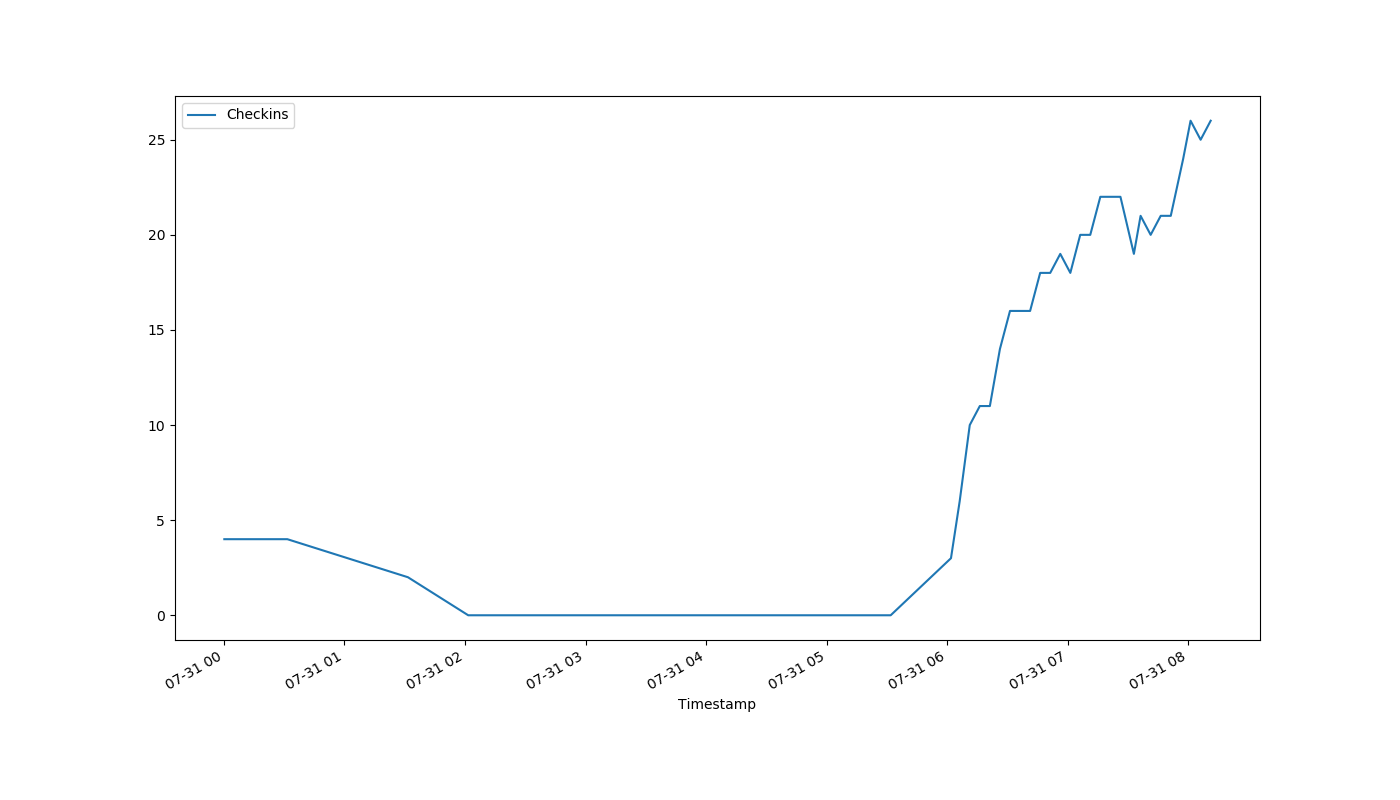
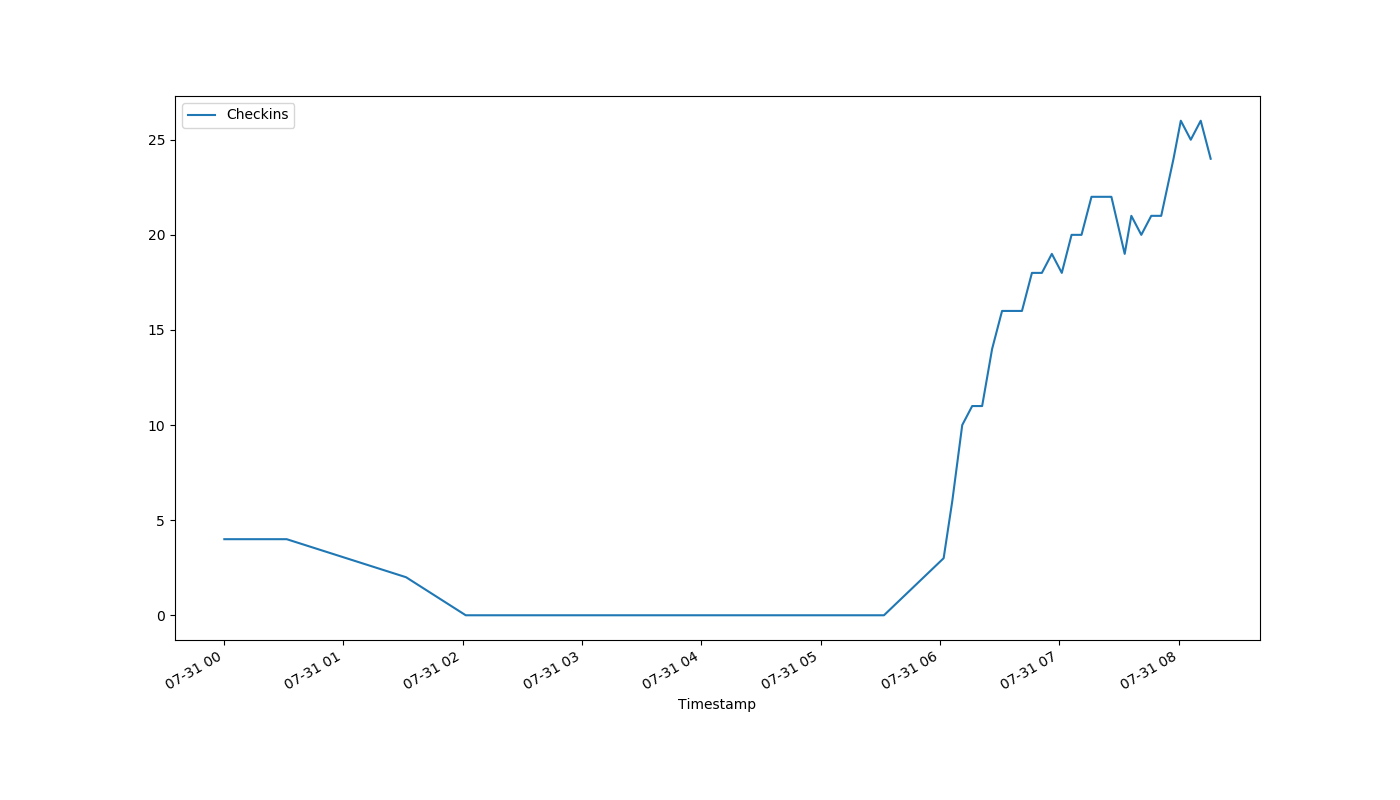
auto-Jul-31-08:17:27

diff --git a/index.html b/index.html
@@ -1,1 +1,1 @@
-<!DOCTYPE html><html><head><meta http-equiv="refresh" content="30"><link rel='stylesheet' href='holmcurrent.css'></head><body><p id='count'>26</p><div id='graph-wrap'><img id='graph' src='holmgraph-Jul-31.png'></div><p id='updated'>Last updated 08:11:06 / 08:11:02</p></body></html>
+<!DOCTYPE html><html><head><meta http-equiv="refresh" content="30"><link rel='stylesheet' href='holmcurrent.css'></head><body><p id='count'>24</p><div id='graph-wrap'><img id='graph' src='holmgraph-Jul-31.png'></div><p id='updated'>Last updated 08:16:06 / 08:16:03</p></body></html>
